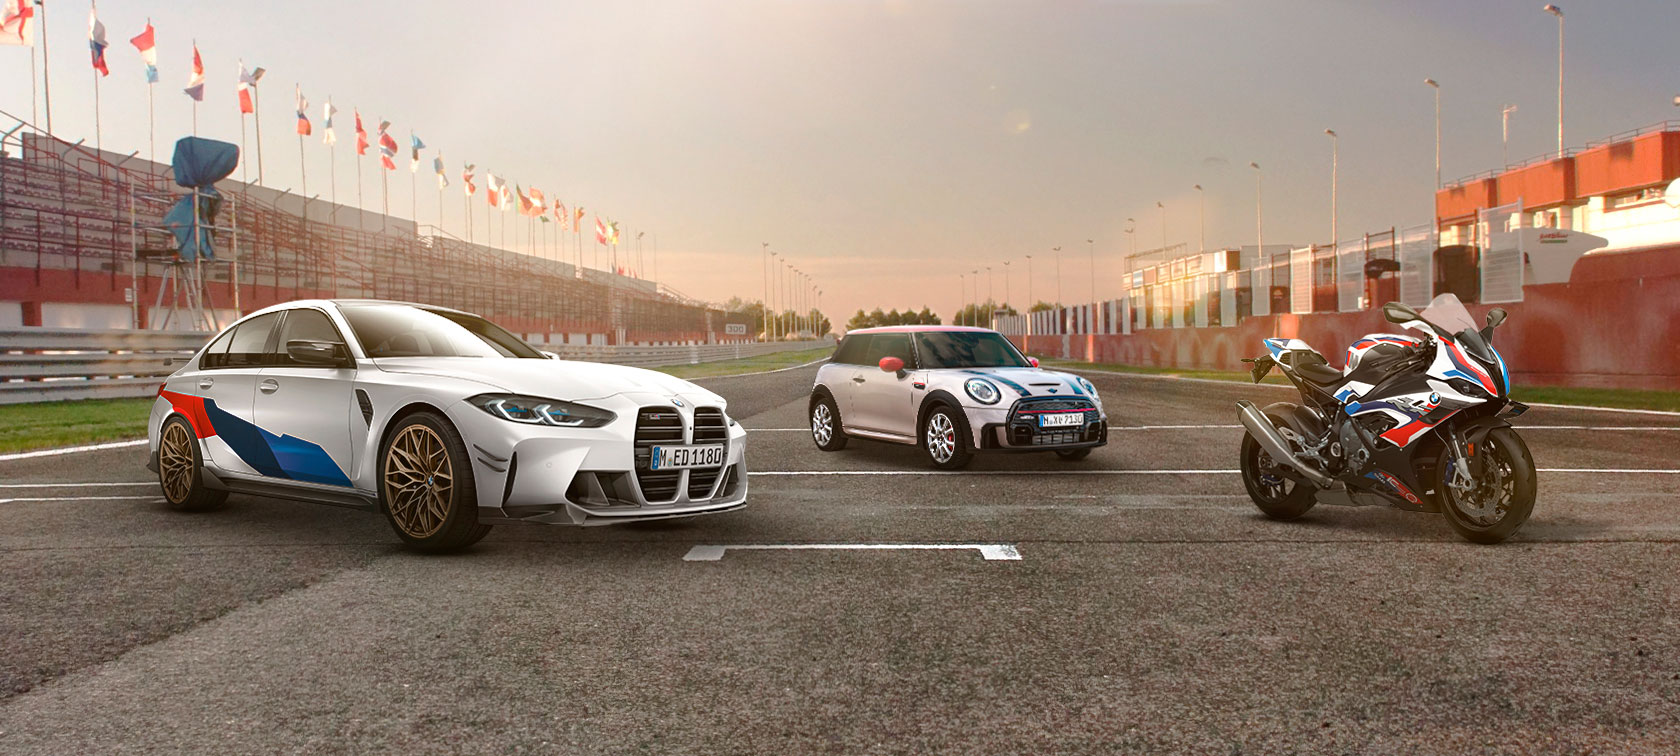
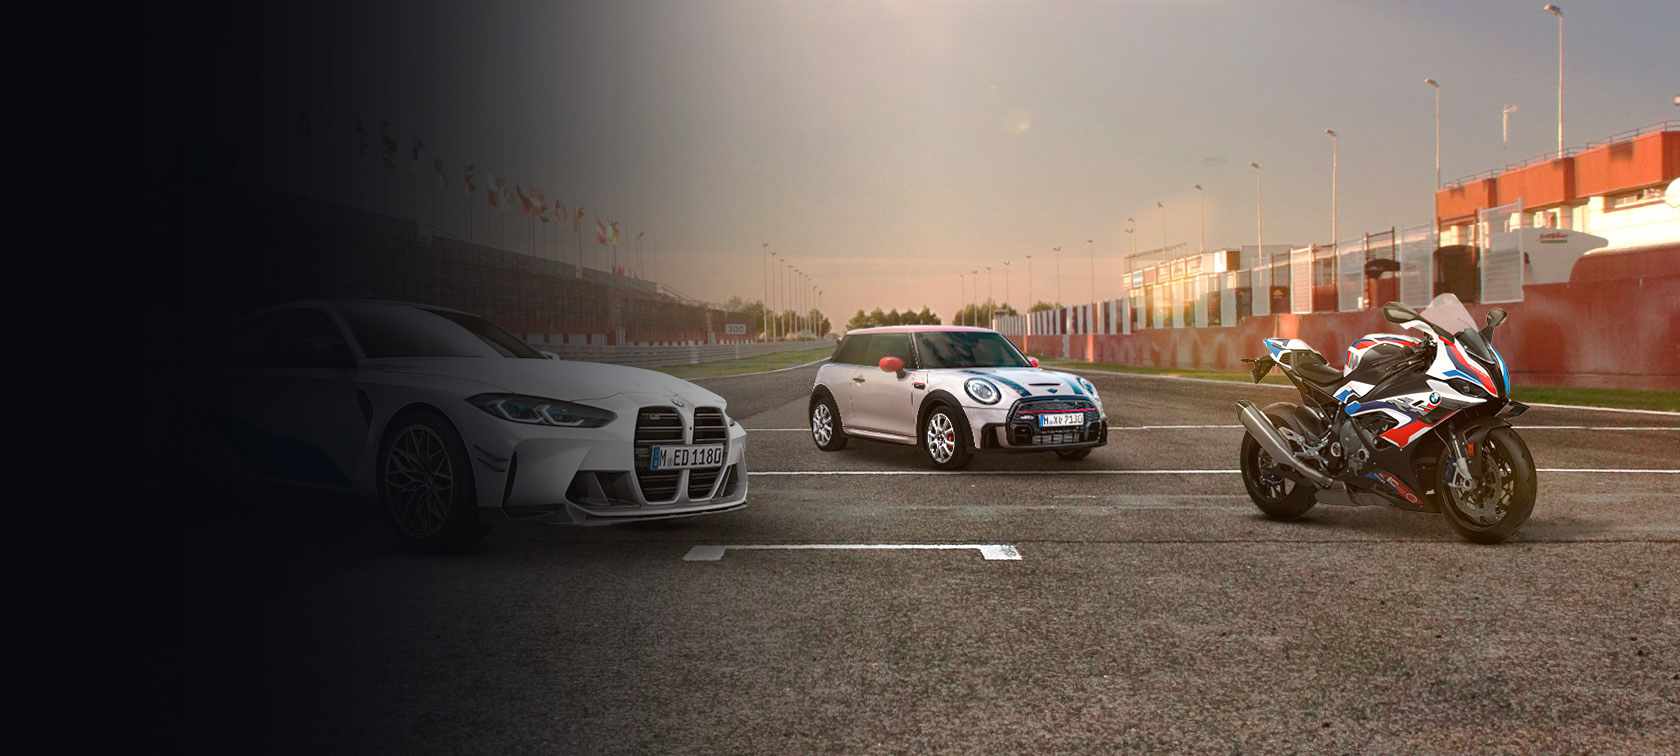
(BUILD) Footer & Main feed prototypes implemented

diff --git a/FrontEnd/view/index.html b/FrontEnd/view/index.html
@@ -29,6 +29,7 @@
                 <p>Home</p>
                 <p>Services</p>
                 <p>Team</p>
+                <p>Courses</p>
                 <p></p>
             </div>
             
@@ -44,17 +45,29 @@
                 <br>
                 <img src="../img/drivingAcademyLogo.png" alt="">
             </section>
-            
         </div>
-    </div>
-    <div class="container2">
-        <img src="../img/fondo2.png" alt="">
-    </div>
+
+        <div class="container2">
+            <h1 class="container2_title">We are a good academy!</h1>
+            <div class="container2_grid">
+                <div class="d1 container2_grid_areas"></div>
+                <div class="d2 container2_grid_areas"></div>
+                <div class="d3 container2_grid_areas" ></div>
+                <div class="d4 container2_grid_areas"></div>
+                <div class="d5 container2_grid_areas"></div>
+                <div class="d6 container2_grid_areas"></div>
+            </div>
+        </div>
     <script src="../js/index.js"></script>
 
 
     <footer>
-        
+        <div class="footer_container">
+            <h3 class="footer_txt">Privacy policy</h3>
+            <h3 class="footer_txt">Terms & conditions</h3>
+            <h3 class="footer_txt">Contact Us</h3>
+            <h3 class="footer_txt">© 2022 PCSACADEMY</h3>
+        </div>
     </footer>
 </body>
 </html>

diff --git a/FrontEnd/style/index.css b/FrontEnd/style/index.css
@@ -1,7 +1,10 @@
+*{
+    margin: 0;
+}
+
 .container1_txt{
     color: white;
     max-height: 88.5vh;
-    background: linear-gradient(90deg, #000000 30%, rgba(0, 0, 0, 0) 100%);
     position: absolute;
     padding-left: 10vh;
     top: 0;
@@ -18,4 +21,48 @@
     width: 41.11vh;
     font-size: 40px;
     margin-bottom: 1vh;
+}
+
+.container2{
+    margin-left: 30vh;
+    margin-right: 30vh;
+}
+
+.container2_title{
+    margin-top: 5vh;
+    margin-left: 55vh;
+}
+
+.container2_grid {
+    display: grid;
+    margin-top: 5vh;
+    grid-template-columns: 1fr 1fr 1fr;
+    grid-template-rows: 1fr 1fr;
+    gap: 0px 0px;
+    grid-auto-flow: row;
+    grid-template-areas:
+    "d1 d2 d3"
+    "d4 d5 d6";
+    }
+
+.container2_grid_areas{
+    border-radius: 1.2vh;
+    background-color: lightgrey;
+    margin: 1vh;
+    margin-bottom: 2vh;
+    max-width: 35vh;
+    min-height: 35vh;
+}
+
+.footer_container{
+    display: flex;
+    padding-left: 35%;
+    background-color: rgb(0, 0, 0);
+    color: #fff;
+    padding-top: 1.8vh;
+    min-height: 5vh;
+}
+
+.footer_txt{
+    margin-left: 2vh;
 }
